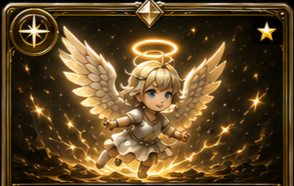
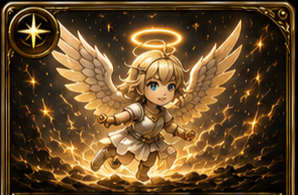
Add files via upload

diff --git a/cg-game.js b/cg-game.js
@@ -32,12 +32,11 @@ const CARD_DEFS = {
   water_golem:    { name: 'アクアゴーレム',   element: 'water',  rarity: 'rare',   cost: 3, atk: 3, hp: 6,  role: 'defender', skillTag: { trigger: 'turnStart', effect: 'healSelf', value: 2 }, skill: '毎ターン開始時、自分のHPを2回復', image: 'card-water-golem.png', emoji: '🌊' },
   water_slime:    { name: 'アクアスライム',   element: 'water',  rarity: 'normal', cost: 1, atk: 1, hp: 3,  role: 'defender', skill: '', image: 'card-water-aquaslime.png', emoji: '🔵' },
   water_serpent:  { name: 'リヴァイアサン',   element: 'water',  rarity: 'epic',   cost: 4, atk: 5, hp: 4,  role: 'attacker', skillTag: { trigger: 'onAttack', effect: 'stunTarget' }, skill: '攻撃時、攻撃した相手モンスターを1ターン行動不能', image: 'card-water-serpent.png', emoji: '🐍' },
-  nature_treant:  { name: 'ウッドエント',     element: 'nature', rarity: 'rare',  cost: 3, atk: 2, hp: 8,  role: 'defender', skillTag: { trigger: 'turnStart', effect: 'healSelf', value: 1 }, skill: '毎ターン開始時、HPを1回復', image: 'card-nature-treant.png', emoji: '🌳' },
   nature_elfarcher: { name: 'エルフアーチャー', element: 'nature', rarity: 'rare', cost: 3, atk: 3, hp: 3,  role: 'attacker', skillTag: { trigger: 'onAttack', effect: 'poisonChance', value: 1, chance: 0.5, turns: 2 }, skill: '攻撃時、50%の確率で相手に毒を付与（2ターンの間、毎ターン開始時に1ダメージ）', image: 'card-nature-elfarcher.png', emoji: '🏹' },
   nature_wolf:    { name: 'シャドウアサシン', element: 'dark', rarity: 'normal', cost: 2, atk: 3, hp: 2,  role: 'attacker', skillTag: { trigger: 'onAttack', effect: 'extraDamage', value: 1 }, skill: '攻撃時、追加で1ダメージ', image: 'card-dark-shadowassassin.png', emoji: '🗡' },
-  nature_panda:   { name: '世界樹の守護者', element: 'nature', rarity: 'rare', cost: 2, atk: 2, hp: 4,  role: 'defender', skillTag: { trigger: 'onPlay', effect: 'healAndShieldAllies', value: 1, shieldValue: 1 }, skill: '場に出た時、味方全体のHPを1回復し、シールド1を付与する', image: 'card-nature-worldtreeguardian.png', emoji: '🌪' },
+  nature_panda:   { name: '世界樹の守護者', element: 'nature', rarity: 'epic', cost: 2, atk: 2, hp: 4,  role: 'defender', skillTag: { trigger: 'onPlay', effect: 'healAndShieldAllies', value: 1, shieldValue: 1 }, skill: '場に出た時、味方全体のHPを1回復し、シールド1を付与する', image: 'card-nature-worldtreeguardian.png', emoji: '🌪' },
   light_angel:    { name: 'ヴァルキリー', element: 'light', rarity: 'epic', cost: 4, atk: 5, hp: 4, role: 'attacker', skillTag: { trigger: 'onPlay', effect: 'healAllAllies', value: 1 }, skill: '場に出た時、味方全体のHPを1回復', image: 'card-light-angel.png', emoji: '⚔' },
-  light_holyangel: { name: 'ホーリーエンジェル', element: 'light', rarity: 'rare', cost: 3, atk: 2, hp: 4, role: 'attacker', skillTag: { trigger: 'onPlay', effect: 'healLowestAllyCleanse', value: 3 }, skill: '場に出た時、最もHPが減っている味方1体のHPを3回復し、状態異常を解除する', image: 'card-light-holyangel.png', emoji: '👼' },
+  light_holyangel: { name: 'ホーリーエンジェル', element: 'light', rarity: 'normal', cost: 3, atk: 2, hp: 4, role: 'attacker', skillTag: { trigger: 'onPlay', effect: 'healLowestAllyCleanse', value: 3 }, skill: '場に出た時、最もHPが減っている味方1体のHPを3回復し、状態異常を解除する', image: 'card-light-holyangel.png', emoji: '👼' },
   light_unicorn:  { name: 'セラフィムナイト', element: 'light', rarity: 'normal',  cost: 2, atk: 2, hp: 4,  role: 'defender', skillTag: { trigger: 'onPlay', effect: 'shieldAllAllies', value: 1 }, skill: '場に出た時、味方全体にシールド1を付与する', image: 'card-light-seraphimknight.png', emoji: '🛡' },
   light_cleric:   { name: 'クレリック',       element: 'light',  rarity: 'normal', cost: 2, atk: 1, hp: 3,  role: 'defender', skill: '', image: 'card-light-cleric.png', emoji: '🕊' },
   dark_wolf:      { name: 'シャドウウルフ',   element: 'dark',   rarity: 'rare',   cost: 3, atk: 4, hp: 3,  role: 'attacker', skill: '', image: 'card-dark-wolf.png', emoji: '🐾' },
@@ -48,12 +47,10 @@ const CARD_DEFS = {
   crystal_fox:    { name: 'クリスタルフォックス', element: 'light', rarity: 'legend', cost: 6, atk: 6, hp: 8, role: 'attacker', skillTag: { trigger: 'onPlay', effect: 'drawCard', value: 1 }, skill: '場に出た時、カードを1枚引く', image: 'card-crystal-fox.png', emoji: '🦊' },
   water_icewolf:      { name: 'スピリットメイデン',     element: 'water', rarity: 'epic',   cost: 4, atk: 5, hp: 4, role: 'attacker', skillTag: { trigger: 'onPlay', effect: 'refundCost', value: 1 }, skill: '場に出た時、自分のコストを1回復する', image: 'card-water-spiritmaiden.png', emoji: '🐺' },
   nature_elfunicorn:  { name: 'エルフユニコーン', element: 'nature', rarity: 'rare',  cost: 3, atk: 4, hp: 3, role: 'attacker', skillTag: { trigger: 'onPlay', effect: 'healAllAllies', value: 1 }, skill: '場に出た時、味方全体のHPを1回復', image: 'card-nature-elfunicorn.png', emoji: '🦄' },
-  water_crystalgolem: { name: 'クリスタルゴーレム', element: 'water', rarity: 'epic', cost: 4, atk: 3, hp: 7, role: 'defender', skill: '', image: 'card-water-crystalgolem.png', emoji: '💎' },
-  dark_thunderchimera:{ name: 'サンダーキマイラ', element: 'dark', rarity: 'epic',    cost: 4, atk: 6, hp: 4, role: 'attacker', skill: '', image: 'card-dark-thunderchimera.png', emoji: '⚡' },
   nature_sylph:       { name: 'シルフ',           element: 'nature', rarity: 'normal',  cost: 1, atk: 2, hp: 2, role: 'attacker', skillTag: { trigger: 'onPlay', effect: 'drawCard', value: 1 }, skill: '場に出た時、カードを1枚引く', image: 'card-nature-sylph.png', emoji: '🧚' },
   nature_swiftrabbit: { name: '俊足のウサギ',     element: 'nature', rarity: 'rare',  cost: 1, atk: 1, hp: 2, role: 'attacker', rush: true, skill: '【速攻】召喚したこのターンにすぐ攻撃できる（攻撃力は低め）', image: null, emoji: '🐇' },
   dark_demonlord:     { name: 'デモンロード',     element: 'dark', rarity: 'legend',  cost: 6, atk: 5, hp: 9, role: 'defender', skillTag: { trigger: 'onKillAttack', effect: 'drainEnemyCost', value: 1 }, skill: '敵モンスターを撃破した時、相手のコストを1消費させる', image: 'card-dark-demonlord.png', emoji: '😈' },
-  fire_magmacolossus: { name: 'イフリート', element: 'fire', rarity: 'legend',    cost: 5, atk: 5, hp: 6, role: 'attacker', skillTag: { trigger: 'onAttack', effect: 'aoeDamageAndBurn', value: 2, burnDmg: 1, burnTurns: 2 }, skill: '攻撃時、敵全体に2ダメージを与え、2ターンの間、火傷（毎ターン開始時に1ダメージ）を付与する', image: 'card-fire-ifrit.png', emoji: '👹' },
+  fire_magmacolossus: { name: 'イフリート', element: 'fire', rarity: 'epic',    cost: 5, atk: 5, hp: 6, role: 'attacker', skillTag: { trigger: 'onAttack', effect: 'aoeDamageAndBurn', value: 2, burnDmg: 1, burnTurns: 2 }, skill: '攻撃時、敵全体に2ダメージを与え、2ターンの間、火傷（毎ターン開始時に1ダメージ）を付与する', image: 'card-fire-ifrit.png', emoji: '👹' },
   dark_voidreaper:        { name: 'ヴォイドリーパー',   element: 'dark', rarity: 'legend', cost: 6, atk: 7, hp: 8,  role: 'attacker', skillTag: { trigger: 'onKillAttack', effect: 'extraAttackOnKill' }, skill: '【固有】敵を撃破した時、行動終了せず続けてもう一度攻撃できる', image: 'card-dark-voidreaper.png', emoji: '💀' },
   dark_nocturnaldragon:    { name: 'ノクターナルドラゴン', element: 'dark', rarity: 'legend', cost: 7, atk: 8, hp: 10,  role: 'attacker', skillTag: { trigger: 'onAttack', effect: 'novaAttack' }, skill: '【固有】攻撃時、自分の攻撃力と同じダメージを敵全体に与える', image: 'card-dark-nocturnaldragon.png', emoji: '🐉' },
   dark_lunaelf:            { name: 'ルナエルフ',         element: 'dark', rarity: 'legend', cost: 4, atk: 3, hp: 7,  role: 'defender', skillTag: { trigger: 'onPlay', effect: 'refundCost', value: 2 }, skill: '【固有】場に出た時、自分のコストを2回復する', image: 'card-dark-lunaelf.png', emoji: '🦋' },
@@ -236,6 +233,15 @@ function loadState() {
     // 既存プレイヤーへの後方互換対応: 旧セーブにhasSeenOnboardingが無い場合、
     // 新規プレイヤー向けチュートリアルが誤って表示されないよう「見た事にする」
     if (saved.hasSeenOnboarding === undefined) saved.hasSeenOnboarding = true;
+    // カード完全削除時の後方互換対応: 廃止したカードIDが旧セーブに残っていると、
+    // デッキ内で参照切れを起こしうるため、所持カード・デッキの両方から取り除く
+    const removedCardIds = ['nature_treant', 'water_crystalgolem', 'dark_thunderchimera'];
+    removedCardIds.forEach(id => {
+      if (saved.cards) delete saved.cards[id];
+    });
+    if (Array.isArray(saved.deck)) {
+      saved.deck = saved.deck.filter(id => !removedCardIds.includes(id));
+    }
     return Object.assign(base, saved);
   } catch (e) {
     console.error('load failed', e);
@@ -3160,7 +3166,7 @@ const SHOP_PACKS = [
     preview: ['water_slime', 'nature_wolf', 'water_golem'] },
   { id: 'rare', name: 'レアガチャ', icon: '🎁', currency: 'gems', cost: 10,
     desc: 'レア以上が確定で出るガチャ', weights: { normal: 0, rare: 65, epic: 28, legend: 7 },
-    preview: ['nature_treant', 'dark_wolf', 'light_angel'] },
+    preview: ['nature_elfarcher', 'dark_wolf', 'light_angel'] },
   { id: 'premium', name: 'プレミアムガチャ', icon: '👑', currency: 'gems', cost: 30,
     desc: 'エピック以上が確定で出る豪華ガチャ', weights: { normal: 0, rare: 0, epic: 70, legend: 30 },
     preview: ['fire_dragon', 'crystal_fox', 'dark_reaper'] },

diff --git a/sw.js b/sw.js
@@ -3,7 +3,7 @@
    修正のたびに CACHE_NAME のバージョン番号を上げること（例: v1 → v2）
    ========================================================= */
 
-const CACHE_NAME = 'lisnoir-cache-v95';
+const CACHE_NAME = 'lisnoir-cache-v96';
 
 // オフラインでも表示できるようキャッシュする静的アセット一覧
 const CACHE_ASSETS = [
@@ -33,14 +33,11 @@ const CACHE_ASSETS = [
   'card-rock-giant.png',
   'card-dark-shadowassassin.png',
   'card-light-angel.png',
-  'card-nature-treant.png',
   'card-nature-elfarcher.png',
   'card-fire-imp.png',
   'card-spell-apocalypse.png',
   'card-water-spiritmaiden.png',
   'card-nature-elfunicorn.png',
-  'card-water-crystalgolem.png',
-  'card-dark-thunderchimera.png',
   'card-nature-sylph.png',
   'card-dark-demonlord.png',
   'card-dark-voidreaper.png',

diff --git a/README.md b/README.md
@@ -1328,3 +1328,14 @@ Service Workerのキャッシュバージョンを v71→v72 に更新
 - Service Workerのキャッシュバージョンを v94→v95 に更新
 
 *このREADMEは、機能追加・修正のたびに最新状態へ更新して提供します。*
+
+### 2026-07-24 (103回目の修正・画像差し替え＋カード削除)
+- **画像の再差し替え**：世界樹の守護者・ホーリーエンジェル・イフリートの3枚を、あらためていただいた画像で差し替えました
+- **レアリティを変更**：世界樹の守護者（レア→エピック）、ホーリーエンジェル（レア→ノーマル）、イフリート（レジェンド→エピック）。ご指定に合わせて調整し、ステータス・スキルはそのまま維持しています
+- **カードの完全削除**：ウッドエント・サンダーキマイラ・クリスタルゴーレムの3体を、カード定義から完全に削除しました
+  - あわせて、レアガチャの収録カード例に含まれていた「ウッドエント」を「エルフアーチャー」に差し替え
+  - **既存プレイヤーへの対応**：削除したカードが既にデッキや所持カードに含まれている場合、次回起動時の読み込み処理で自動的に取り除かれるようにしました（参照切れによる不具合を防止するため）
+  - 該当する画像ファイルはオフラインキャッシュ対象からも除外しました
+- Service Workerのキャッシュバージョンを v95→v96 に更新
+
+*このREADMEは、機能追加・修正のたびに最新状態へ更新して提供します。*
